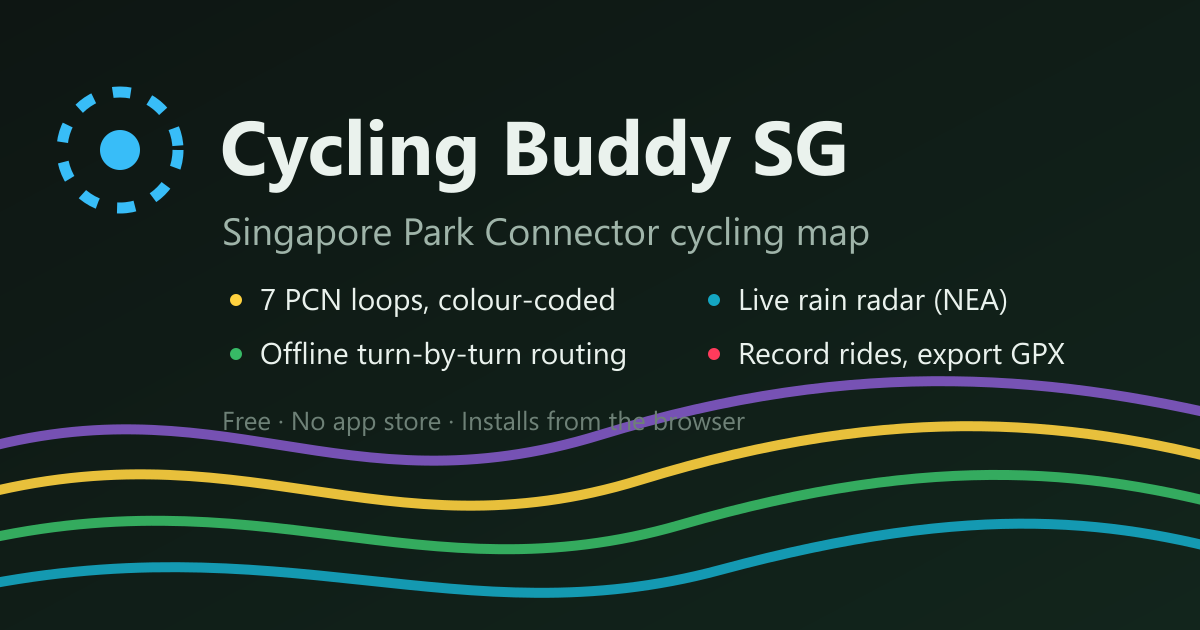
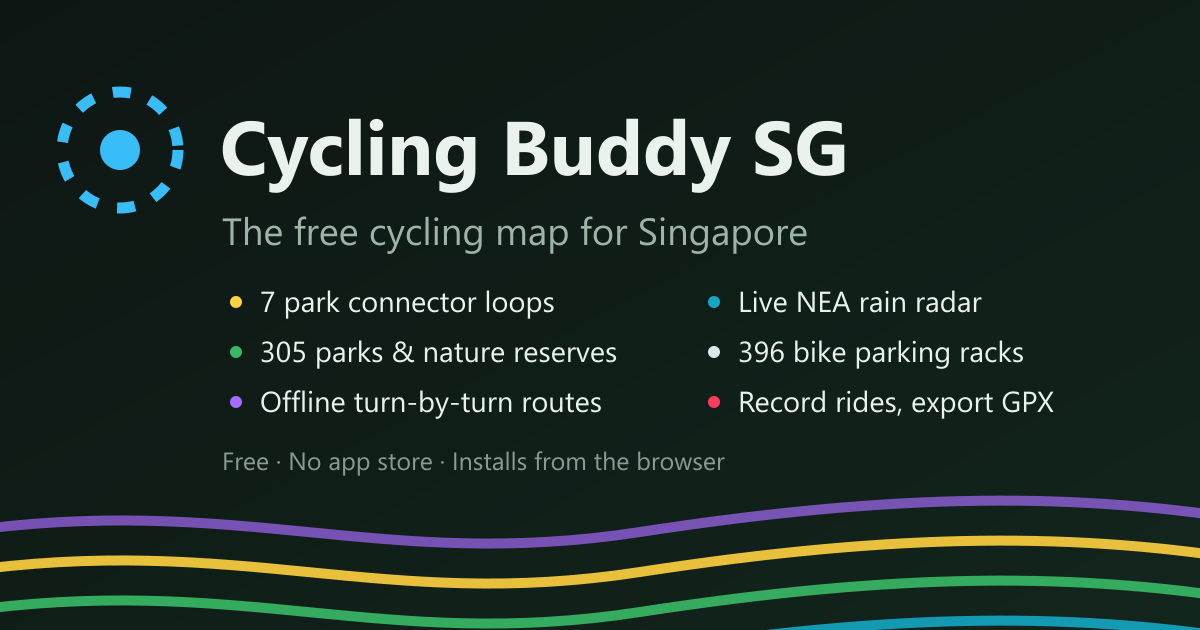
Reposition beyond park connectors; fix legend swatch, header and row wrapping
The app now carries far more than the PCN — cycling paths, the Rail Corridor, parks,
nature reserves, bike parking and live weather — so the copy no longer says
"Park Connector companion". PCN stays prominent in the description as the strongest
Singapore search term; it just isn't the whole product any more.

Positioning
- Title/OG/Twitter/JSON-LD/manifest/README: "the free cycling map for Singapore",
  with the full network + counts. Keywords broadened beyond PCN-only.
- About sheet rewritten; brand subtitle "PCN · Singapore" -> "Ride Singapore".
- Share card regenerated: 6 features, and the decorative loop lines no longer run
  through the text (they overlapped the tagline in the previous card too).

Bugs fixed
- Rack legend/popup swatch: `.lrow .sw i` and `.pcn-popup i.sw` (0,2,1) outranked
  `.sw-rack` (0,1,0), forcing the round "P" badge into a 14x4 line bar / 10x10 square.
- Legend header said "Loops" while listing paths, parks and parking. Now "Map layers".
  Dropped the PCN km from the header: measured, "Layers · 334.8 km PCN" wraps at every
  phone width, and "· 334.8 km" next to 432.9 km of paths reads as a panel total. The
  dock stat carries it, labelled.
- Legend rows wrapped onto two lines on the 188px phone panel (pre-existing for Rail
  Corridor and Cycling paths). The subtitle budget is 64px, so each row now shows one
  magnitude: 24.2 km / 432.9 km / 64.7 km² / 19,329 spaces. Verified single-line at
[…]

diff --git a/index.html b/index.html
@@ -4,22 +4,22 @@
 <head>
 <meta charset="utf-8">
 <meta name="viewport" content="width=device-width, initial-scale=1, maximum-scale=1, user-scalable=no, viewport-fit=cover">
-<title>Cycling Buddy SG — Singapore PCN Cycling Map &amp; Route Planner</title>
-<meta name="description" content="Free cycling map for Singapore's Park Connector Network (PCN). All 7 loops colour-coded, offline turn-by-turn routes that prefer park connectors, live NEA rain radar, ride recording with GPX export. Installs from your browser — no app store.">
+<title>Cycling Buddy SG — Singapore Cycling Map, Routes &amp; Rain Radar</title>
+<meta name="description" content="The free cycling map for Singapore: all 7 Park Connector (PCN) loops, LTA cycling paths, the Rail Corridor, every park &amp; nature reserve, and bike parking island-wide. Offline turn-by-turn routing, live NEA rain radar, ride recording with GPX. Installs from your browser — no app store.">
 <meta name="author" content="Lin Jiaen">
 <link rel="canonical" href="https://jiaenlin.github.io/cycling-buddy-sg/">
 <meta property="og:type" content="website">
 <meta property="og:site_name" content="Cycling Buddy SG">
-<meta property="og:title" content="Cycling Buddy SG — Singapore PCN Cycling Map">
-<meta property="og:description" content="Free offline cycling map for Singapore's Park Connectors — 7 colour-coded loops, turn-by-turn routes, live rain radar, ride recording. No app store needed.">
+<meta property="og:title" content="Cycling Buddy SG — Singapore Cycling Map">
+<meta property="og:description" content="The free cycling map for Singapore — park connectors, cycling paths, parks &amp; reserves, bike parking, offline routes, live rain radar and ride recording. No app store needed.">
 <meta property="og:url" content="https://jiaenlin.github.io/cycling-buddy-sg/">
 <meta property="og:image" content="https://jiaenlin.github.io/cycling-buddy-sg/icons/og.png">
 <meta property="og:image:width" content="1200">
 <meta property="og:image:height" content="630">
 <meta property="og:locale" content="en_SG">
 <meta name="twitter:card" content="summary_large_image">
-<meta name="twitter:title" content="Cycling Buddy SG — Singapore PCN Cycling Map">
-<meta name="twitter:description" content="Free offline cycling map for Singapore's Park Connectors — routes, rain radar, ride recording.">
+<meta name="twitter:title" content="Cycling Buddy SG — Singapore Cycling Map">
+<meta name="twitter:description" content="The free cycling map for Singapore — park connectors, paths, parks, bike parking, offline routes and live rain radar.">
 <meta name="twitter:image" content="https://jiaenlin.github.io/cycling-buddy-sg/icons/og.png">
 <script type="application/ld+json">
 {
@@ -27,7 +27,7 @@
   "@type": "WebApplication",
   "name": "Cycling Buddy SG",
   "url": "https://jiaenlin.github.io/cycling-buddy-sg/",
-  "description": "Free offline-capable cycling map for Singapore's Park Connector Network: all 7 PCN loops, turn-by-turn routing that prefers park connectors, live NEA rain forecast, ride recording with GPX export.",
+  "description": "The free, offline-capable cycling map for Singapore: all 7 Park Connector (PCN) loops, LTA cycling paths, the Rail Corridor, 305 parks and nature reserves, and 396 bike parking racks. Turn-by-turn routing that prefers park connectors, live NEA rain radar, and ride recording with GPX export.",
   "applicationCategory": "TravelApplication",
   "operatingSystem": "Any",
   "browserRequirements": "Requires JavaScript and a modern browser",
@@ -35,7 +35,7 @@
   "offers": { "@type": "Offer", "price": "0", "priceCurrency": "SGD" },
   "inLanguage": "en-SG",
   "author": { "@type": "Person", "name": "Lin Jiaen", "url": "https://github.com/JiaenLin" },
-  "keywords": "Singapore cycling, Park Connector Network, PCN map, PCN loops, cycling route planner Singapore, Rail Corridor, bicycle Singapore"
+  "keywords": "Singapore cycling map, Park Connector Network, PCN map, PCN loops, cycling route planner Singapore, cycling paths Singapore, Rail Corridor, parks and nature reserves Singapore, bicycle parking Singapore, bike racks, rain radar Singapore, bicycle Singapore"
 }
 </script>
 <meta name="theme-color" content="#0E1613" media="(prefers-color-scheme: dark)">
@@ -58,7 +58,7 @@
         <circle cx="16" cy="16" r="13" fill="none" stroke="var(--accent)" stroke-width="2.6" stroke-dasharray="4 4.5"/>
         <circle cx="16" cy="16" r="4.4" fill="var(--accent)"/>
       </svg>
-      <div class="wm"><b>Cycling Buddy</b><span>PCN · Singapore</span></div>
+      <div class="wm"><b>Cycling Buddy</b><span>Ride Singapore</span></div>
     </div>
     <div class="topbtns">
       <button class="iconbtn" id="shareBtn" aria-label="Share this app" title="Share">
@@ -77,9 +77,9 @@
     </div>
   </div>
 
-  <section class="legend" id="legend" aria-label="Loops">
+  <section class="legend" id="legend" aria-label="Map layers">
     <div class="lg-head" id="lgHead" role="button" tabindex="0" aria-expanded="true">
-      <h2>Loops · <span id="totalKm">—</span></h2>
+      <h2>Map layers</h2>
       <svg class="chev" width="16" height="16" viewBox="0 0 24 24" fill="none" stroke="currentColor" stroke-width="2.2" stroke-linecap="round" stroke-linejoin="round"><path d="M6 9l6 6 6-6"/></svg>
     </div>
     <div class="lg-body" id="lgBody"></div>
@@ -178,19 +178,19 @@
   <div class="sheet" id="sheet" role="dialog" aria-modal="true" aria-label="About Cycling Buddy SG">
     <div class="grip"></div>
     <button class="iconbtn close" id="closeSheet" aria-label="Close"><svg viewBox="0 0 24 24"><path d="M6 6l12 12M18 6L6 18"/></svg></button>
-    <h3>Cycling Buddy SG — your Singapore PCN companion</h3>
-    <p>A cycling map of Singapore's Park Connector Network on a real street basemap. Find your position, see the nearest connector, and record your ride — installable and offline-ready.</p>
+    <h3>Cycling Buddy SG — your Singapore cycling companion</h3>
+    <p>The whole of cycling Singapore on one map: the 7 Park Connector loops, LTA's cycling paths, the Rail Corridor, every park and nature reserve, and bike parking island-wide. Plan a route offline, check the rain before you go, find your nearest connector, and record your ride — installable, free, and no app store.</p>
     <p><b>How to use</b></p>
     <ul>
-      <li>Drag to pan, pinch/scroll to zoom, tap a coloured path for its loop &amp; park.</li>
+      <li>Drag to pan, pinch/scroll to zoom, tap anything — a path, a park, a rack — to identify it.</li>
       <li><span class="kbd">◎</span> Locate — live position + the nearest connector.</li>
       <li><span class="kbd">➤</span> Compass — with GPS on, one tap zooms in and turns the map to face the way you're heading. Tap again for north-up. Twist with two fingers to rotate any time.</li>
       <li><span class="kbd">⦚</span> Route — tap a start &amp; destination for offline turn-by-turn that prefers park connectors.</li>
       <li><span class="kbd">⛅</span> Weather — a live 2-hour rain forecast for your area (and along your planned route), with a heads-up when thundery showers are likely. Tap the <b>cloud</b> button (top bar) for a rain-zone map of the whole island — coloured zones are wet, everywhere else is clear to ride.</li>
-      <li><span class="kbd">🌳</span> Parks — every park &amp; nature reserve is washed in green; tap one for its name and size. Toggle them in the Loops panel.</li>
+      <li><span class="kbd">🌳</span> Parks — every park &amp; nature reserve is washed in green; tap one for its name and size. Toggle them in the Layers panel.</li>
       <li><span class="kbd">P</span> Bike parking — zoom in past street level and LTA's bike racks appear. Solid <b>P</b> = sheltered, hollow = open-air; tap for the number of spaces. When you're located, the nearest rack shows in the panel — tap it to jump there.</li>
       <li><span class="kbd">●</span> Record — traces your ride with distance, time and speed; export GPX.</li>
-      <li>Toggle any loop in the Loops panel; tap its <span class="kbd">⤢</span> to frame it.</li>
+      <li>Toggle any layer — loops, Rail Corridor, cycling paths, parks, bike parking — in the Layers panel; tap its <span class="kbd">⤢</span> to frame it.</li>
       <li><span class="kbd">⬇</span> Install — tap the install button (top bar) to add it to your home screen and run it offline like a native app.</li>
     </ul>
     <p><b>Data &amp; maps</b><br>Park connectors (primary): NParks <i>Park Connector Loop</i> (data.gov.sg) — <span id="sheetKm">—</span> km, 7 loops. Rail Corridor: the former KTM railway heritage trail — <span id="sheetRailKm">—</span> km (dashed line; some stretches closed for improvement works, reopening 2027). Cycling paths (secondary): LTA <i>Cycling Path Network</i> — <span id="sheetCpnKm">—</span> km. Parks &amp; nature reserves: NParks via data.gov.sg — <span id="sheetParks">—</span> green spaces, <span id="sheetParkKm2">—</span> km² (playgrounds, fitness corners and grass verges in that dataset are left off — they're not cycling destinations). Bike parking: LTA <i>Bicycle Rack</i> — <span id="sheetRacks">—</span> racks, <span id="sheetSpaces">—</span> spaces. Weather: NEA <i>2-hour forecast</i> via data.gov.sg (live, refreshed as you ride). Routing, Rail Corridor &amp; basemap: © OpenStreetMap contributors (ODbL); basemap hosting by OpenFreeMap.</p>

diff --git a/app.js b/app.js
@@ -603,7 +603,7 @@ function appendParksRow(){
   const row=document.createElement('div'); row.className='lrow lrow-parks';
   row.innerHTML =
     `<button class="sw" aria-pressed="true" aria-label="Toggle parks and nature reserves"><i style="background:var(--park)"></i></button>`+
-    `<button class="meta" aria-label="Frame parks"><span class="name">Parks &amp; reserves</span><span class="km">${PARKS_META.count} · ${PARKS_META.total_km2.toFixed(1)} km²</span></button>`+
+    `<button class="meta" aria-label="Frame parks"><span class="name">Parks &amp; reserves</span><span class="km">${PARKS_META.total_km2.toFixed(1)} km²</span></button>`+
     `<button class="zoom" aria-label="Frame parks"><svg viewBox="0 0 24 24"><path d="M4 9V4h5M20 15v5h-5M20 9V4h-5M4 15v5h5"/></svg></button>`;
   row.querySelector('.sw').addEventListener('click', ()=>toggleParks(row));
   const frame=()=>map.fitBounds(PARKS_META.bounds,{padding:{top:80,bottom:180,left:40,right:40}});
@@ -631,7 +631,7 @@ function appendRacksRow(){
   const row=document.createElement('div'); row.className='lrow lrow-racks';
   row.innerHTML =
     `<button class="sw" aria-pressed="true" aria-label="Toggle bike parking"><i class="sw-rack">P</i></button>`+
-    `<button class="meta" aria-label="Frame bike parking"><span class="name">Bike parking</span><span class="km">${RACKS_META.count} racks · ${RACKS_META.spaces.toLocaleString()} spaces</span></button>`+
+    `<button class="meta" aria-label="Frame bike parking"><span class="name">Bike parking</span><span class="km">${RACKS_META.spaces.toLocaleString()} spaces</span></button>`+
     `<button class="zoom" aria-label="Frame bike parking"><svg viewBox="0 0 24 24"><path d="M4 9V4h5M20 15v5h-5M20 9V4h-5M4 15v5h5"/></svg></button>`;
   row.querySelector('.sw').addEventListener('click', ()=>toggleRacks(row));
   const frame=()=>map.fitBounds(RACKS_META.bounds,{padding:{top:80,bottom:180,left:40,right:40}});
@@ -665,11 +665,12 @@ function appendRailRow(){
   if(body.querySelector('.lrow-rail')) return;                // already added
   ensureExtrasSep();
   const sk=$('sheetRailKm'); if(sk) sk.textContent=RAIL_META.total_km.toFixed(1);
-  const closedTxt = RAIL_META.closed_km>0 ? ` · ${RAIL_META.closed_km.toFixed(1)} km closed` : '';
   const row=document.createElement('div'); row.className='lrow lrow-rail';
+  // just the distance — the 6.7 km closure is carried by the dashed style, the tap popup and the
+  // About sheet, and a second fact here wraps the 188px phone panel onto two lines
   row.innerHTML =
     `<button class="sw" aria-pressed="true" aria-label="Toggle Rail Corridor"><i style="background:var(--rail)"></i></button>`+
-    `<button class="meta" aria-label="Frame Rail Corridor"><span class="name">Rail Corridor</span><span class="km">${RAIL_META.total_km.toFixed(1)} km${closedTxt}</span></button>`+
+    `<button class="meta" aria-label="Frame Rail Corridor"><span class="name">Rail Corridor</span><span class="km">${RAIL_META.total_km.toFixed(1)} km</span></button>`+
     `<button class="zoom" aria-label="Frame Rail Corridor"><svg viewBox="0 0 24 24"><path d="M4 9V4h5M20 15v5h-5M20 9V4h-5M4 15v5h5"/></svg></button>`;
   row.querySelector('.sw').addEventListener('click', ()=>toggleRail(row));
   const frame=()=>map.fitBounds(RAIL_META.bounds,{padding:{top:80,bottom:180,left:40,right:40}});
@@ -696,7 +697,7 @@ function appendCpnRow(){
   const row=document.createElement('div'); row.className='lrow lrow-cpn';
   row.innerHTML =
     `<button class="sw" aria-pressed="true" aria-label="Toggle cycling paths"><i style="background:var(--cpn)"></i></button>`+
-    `<button class="meta" aria-label="Frame cycling paths"><span class="name">Cycling paths</span><span class="km">${CPN_META.total_km.toFixed(1)} km · LTA</span></button>`+
+    `<button class="meta" aria-label="Frame cycling paths"><span class="name">Cycling paths</span><span class="km">${CPN_META.total_km.toFixed(1)} km</span></button>`+
     `<button class="zoom" aria-label="Frame cycling paths"><svg viewBox="0 0 24 24"><path d="M4 9V4h5M20 15v5h-5M20 9V4h-5M4 15v5h5"/></svg></button>`;
   row.querySelector('.sw').addEventListener('click', ()=>toggleCpn(row));
   const frame=()=>map.fitBounds(CPN_META.bounds,{padding:{top:80,bottom:180,left:40,right:40}});
@@ -729,7 +730,8 @@ function zoomLoop(i){
   if(!b.isEmpty()) map.fitBounds(b, {padding:{top:80,bottom:180,left:40,right:40}, maxZoom:15});
 }
 function fillStats(){
-  $('totalKm').textContent = META.total_km.toFixed(1)+' km';
+  // no total in the legend header: the panel lists paths/parks/parking too, so a PCN-only
+  // figure there would read as the total. The dock stat below carries it, labelled.
   $('stKm').textContent = META.total_km.toFixed(0)+' km';
   $('stSeg').textContent = META.seg_count.toLocaleString();
   $('sheetKm').textContent = META.total_km.toFixed(1);

diff --git a/style.css b/style.css
@@ -106,7 +106,9 @@ body{
 .lrow.off .name{color:var(--ink-faint)}
 .lrow .meta{flex:1 1 auto;min-width:0;cursor:pointer;background:none;border:0;text-align:left;padding:0;color:inherit;font-family:inherit}
 .lrow .name{font-size:13px;font-weight:600;white-space:nowrap;overflow:hidden;text-overflow:ellipsis;display:block}
-.lrow .km{font-size:11px;color:var(--ink-dim);font-variant-numeric:tabular-nums;font-family:var(--mono)}
+/* deliberately allowed to wrap: the panel is 188px on phones and truncating "6.7 km closed" or
+   "19,329 spaces" loses the number that makes the row worth reading */
+.lrow .km{font-size:11px;color:var(--ink-dim);font-variant-numeric:tabular-nums;font-family:var(--mono);line-height:1.35}
 .lrow .zoom{opacity:.5;width:26px;height:26px;border-radius:7px;border:0;background:transparent;color:var(--ink-dim);cursor:pointer;display:grid;place-items:center;flex:0 0 auto}
 .lrow:hover .zoom{opacity:1}
 .lrow .zoom svg{width:15px;height:15px;stroke:currentColor;fill:none;stroke-width:2;stroke-linecap:round;stroke-linejoin:round}
@@ -158,7 +160,11 @@ body{
 /* nearest bike rack — same card idiom as the weather row */
 .rack-card{cursor:pointer}
 .rk-ic{display:grid;place-items:center;width:26px;height:26px;border-radius:50%;background:var(--rack-fill);color:var(--rack-glyph);font-size:13px;font-weight:800;line-height:1}
-.sw-rack{display:grid;place-items:center;width:13px;height:13px;border-radius:50%;background:var(--rack-fill);color:var(--rack-glyph);font-size:8.5px;font-weight:800;line-height:1;font-style:normal;flex:0 0 auto}
+/* The rack swatch is a round "P" badge, not the 14x4 line bar the other layers use, so it has to
+   outrank `.lrow .sw i` and `.pcn-popup i.sw` — hence the long selectors. */
+.sw-rack{display:grid;place-items:center;border-radius:50%;background:var(--rack-fill);color:var(--rack-glyph);font-weight:800;line-height:1;font-style:normal;flex:0 0 auto}
+.lrow .sw i.sw-rack{width:16px;height:16px;border-radius:50%;font-size:10px}
+.pcn-popup i.sw.sw-rack{width:13px;height:13px;border-radius:50%;font-size:8.5px}
 .wx-ic{font-size:22px;line-height:1;width:26px;text-align:center;flex:0 0 auto}
 .wx-tx{display:flex;flex-direction:column;min-width:0;flex:1;gap:1px}
 .wx-main{font-weight:650;font-size:14px;color:var(--ink);white-space:nowrap;overflow:hidden;text-overflow:ellipsis}

diff --git a/sw.js b/sw.js
@@ -1,6 +1,6 @@
 /* Cycling Buddy SG PWA service worker — offline app shell + runtime basemap tile cache
    © 2026 Lin Jiaen · All rights reserved */
-const VERSION = 'cbsg-v9';
+const VERSION = 'cbsg-v10';
 const SHELL = VERSION + '-shell';
 const TILES = VERSION + '-tiles';
 const TILE_MAX = 800; // cap runtime tile cache entries

diff --git a/README.md b/README.md
@@ -1,10 +1,15 @@
-# Cycling Buddy SG — Singapore Park Connector cycling companion
+# Cycling Buddy SG — the free cycling map for Singapore
 
 **Free for everyone:** https://jiaenlin.github.io/cycling-buddy-sg/
 
-An installable, **offline-capable** cycling map for Singapore's Park Connector Network (PCN).
-See all 7 loops, find the nearest connector, plan routes that prefer park connectors, check
-live rain, record rides — on a real street basemap, no app store, no sign-up, no ads.
+The whole of cycling Singapore on one installable, **offline-capable** map: the 7 Park Connector
+(PCN) loops, LTA's cycling paths, the Rail Corridor, every park and nature reserve, and bike
+parking island-wide. Plan routes offline, check the rain before you go, find your nearest
+connector, record your ride — on a real street basemap. No app store, no sign-up, no ads, no
+tracking cookies.
+
+**In numbers:** 334.8 km of park connectors · 432.9 km of cycling paths · 24.2 km Rail Corridor ·
+305 parks & nature reserves (64.7 km²) · 396 bike racks (19,329 spaces) · live NEA rain radar.
 
 ![Cycling Buddy SG](icons/og.png)
 
@@ -24,8 +29,9 @@ live rain, record rides — on a real street basemap, no app store, no sign-up, 
 - **Private by design** — your location never leaves your device. No accounts, no tracking cookies.
 
 ## Why
-Singapore has ~300 km of park connectors, but no free map that treats the PCN as a
-first-class cycling network — routable, offline, and rain-aware. This app fills that gap.
+Singapore's cycling network is scattered across separate agencies and datasets — NParks runs the
+park connectors and parks, LTA the cycling paths and bike racks, NEA the weather. No free map put
+them together and made them *routable, offline and rain-aware*. This app does.
 
 ## Run locally
 Any static server over HTTP works (the service worker + geolocation need `localhost` or HTTPS):